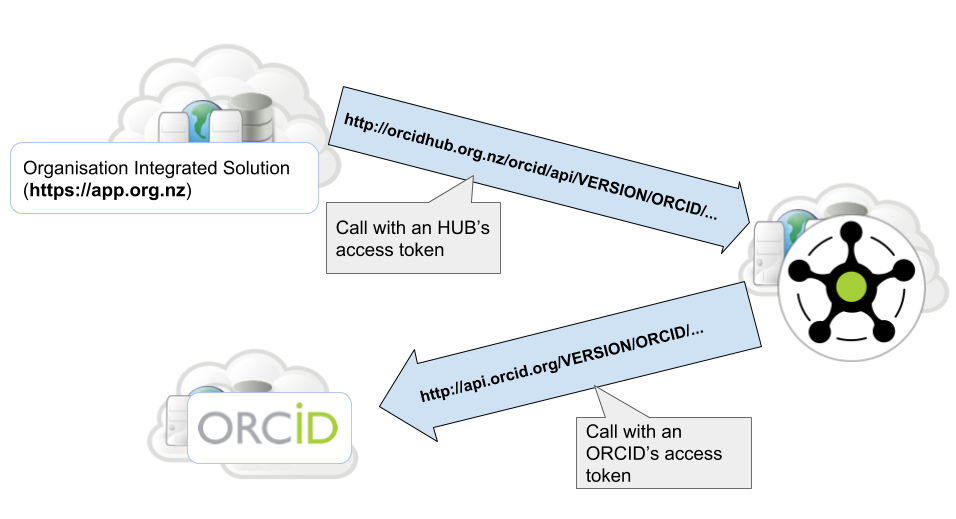
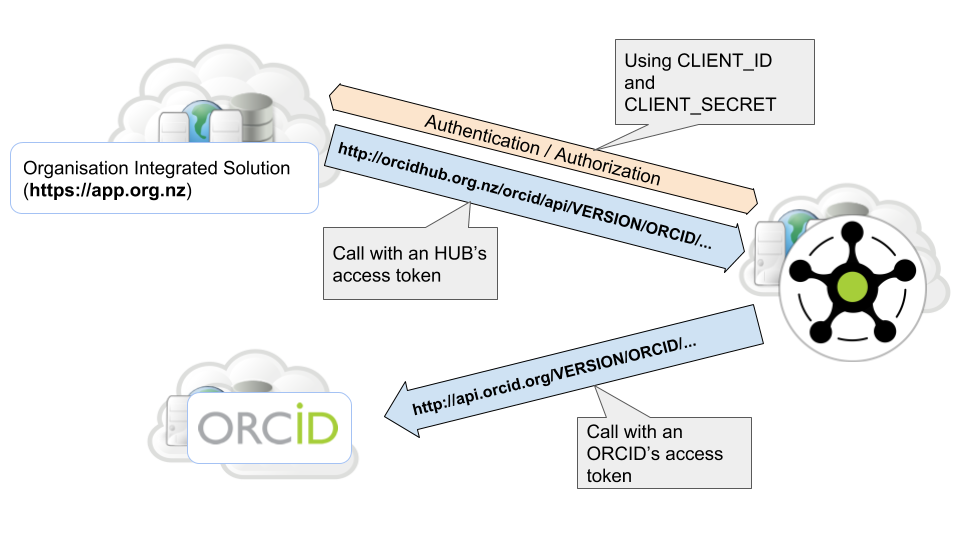
addded section on ORCID API Proxy...

Changed region(s): [[0.0, 0.0617, 1.0, 0.9557]]

diff --git a/docs/app_registration.rst b/docs/app_registration.rst
@@ -3,11 +3,13 @@
 ORCID Hub API Appliction Registration
 =====================================
 
-In order to user ORCID Hub API you first need to register your application navigating to `Settings -> Hub API Registration`:
+In order to user ORCID Hub API you first need to register your application navigating to ``Settings → Hub API Registration``:
 
 .. image:: images/api_app_registration.png
 
+
 .. image:: images/app_registration_form.png
+
 
 When you register your appliction the Hub generates application credentials, a pair of keys: *CLIENT_ID* and *CLIENT_SECRET*:
 

diff --git a/docs/index.rst b/docs/index.rst
@@ -28,11 +28,13 @@ Table of Contents
    works_schema
    writing_peer_review_items
    peer_review_schema
-   webhooks
 
    ORCID API Specification <orcid_api_spec>
 
    app_registration
+   orcid_api_proxy
+   webhooks
+
    development_env
    docker
    virtualbox

diff --git a/docs/orcid_api_proxy.rst b/docs/orcid_api_proxy.rst
@@ -1,0 +1,17 @@
+.. _webhooks:
+
+ORCID API Proxy
+===============
+
+What is an ORCID API Proxy?
+-------------------------
+
+TODO
+
+
+.. image:: images/orcid_api_proxy.png
+
+
+.. image:: images/orcid_api_directly.png
+
+
